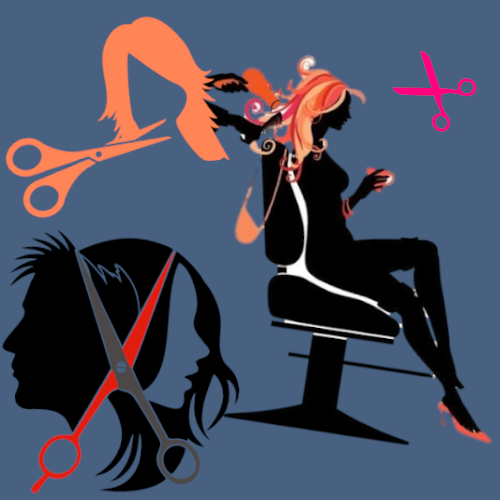
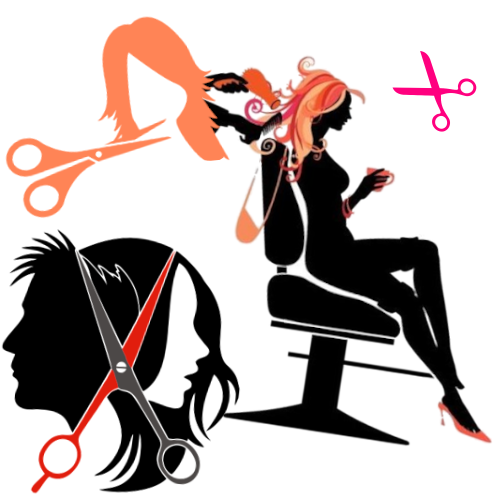
aitor + Probando fuentes y background transparente

diff --git a/frontend/src/css/Reservations.css b/frontend/src/css/Reservations.css
@@ -32,8 +32,8 @@
 .reservation-background {
   /* Center of Screen */
   display: flex;
-  justify-content: center;
-  align-items: center;
+  justify-content: top;
+  align-items: top;
   min-height: 94vh;
 
   /* Animation */
@@ -46,8 +46,8 @@
 
 /* For not flickering on transition */
 div.preload-images {
-  background: url("../img/background-1.jpg") no-repeat -9999px -9999px;
-  background: url("../img/background-1.jpg") no-repeat -9999px -9999px,
+  background: url("../img/background-1.png") no-repeat -9999px -9999px;
+  background: url("../img/background-1.png") no-repeat -9999px -9999px,
     url("../img/background-2.png") no-repeat -9999px -9999px,
     url("../img/background-3.png") no-repeat -9999px -9999px;
 }
@@ -55,27 +55,35 @@ div.preload-images {
 /* Set Different Background Images */
 @keyframes background-loop {
   0% {
-    background-image: url("../img/background-1.jpg");
+    background-image: url("../img/background-1.png");
+    background-color: #F1F9F7;
   }
   15% {
-    background-image: url("../img/background-1.jpg");
+    background-image: url("../img/background-1.png");
+    background-color: #F1F9F7;
   }
   30% {
     background-image: url("../img/background-2.png");
+    background-color: #F1F9F7;
   }
   45% {
     background-image: url("../img/background-2.png");
+    background-color: #F1F9F7;
   }
   60% {
     background-image: url("../img/background-3.png");
+    background-color: #F1F9F7;
   }
   75% {
     background-image: url("../img/background-3.png");
+    background-color: #F1F9F7;
   }
   90% {
-    background-image: url("../img/background-1.jpg");
+    background-image: url("../img/background-1.png");
+    background-color: #F1F9F7;
   }
   100% {
-    background-image: url("../img/background-1.jpg");
+    background-image: url("../img/background-1.png");
+    background-color: #F1F9F7;
   }
 }
